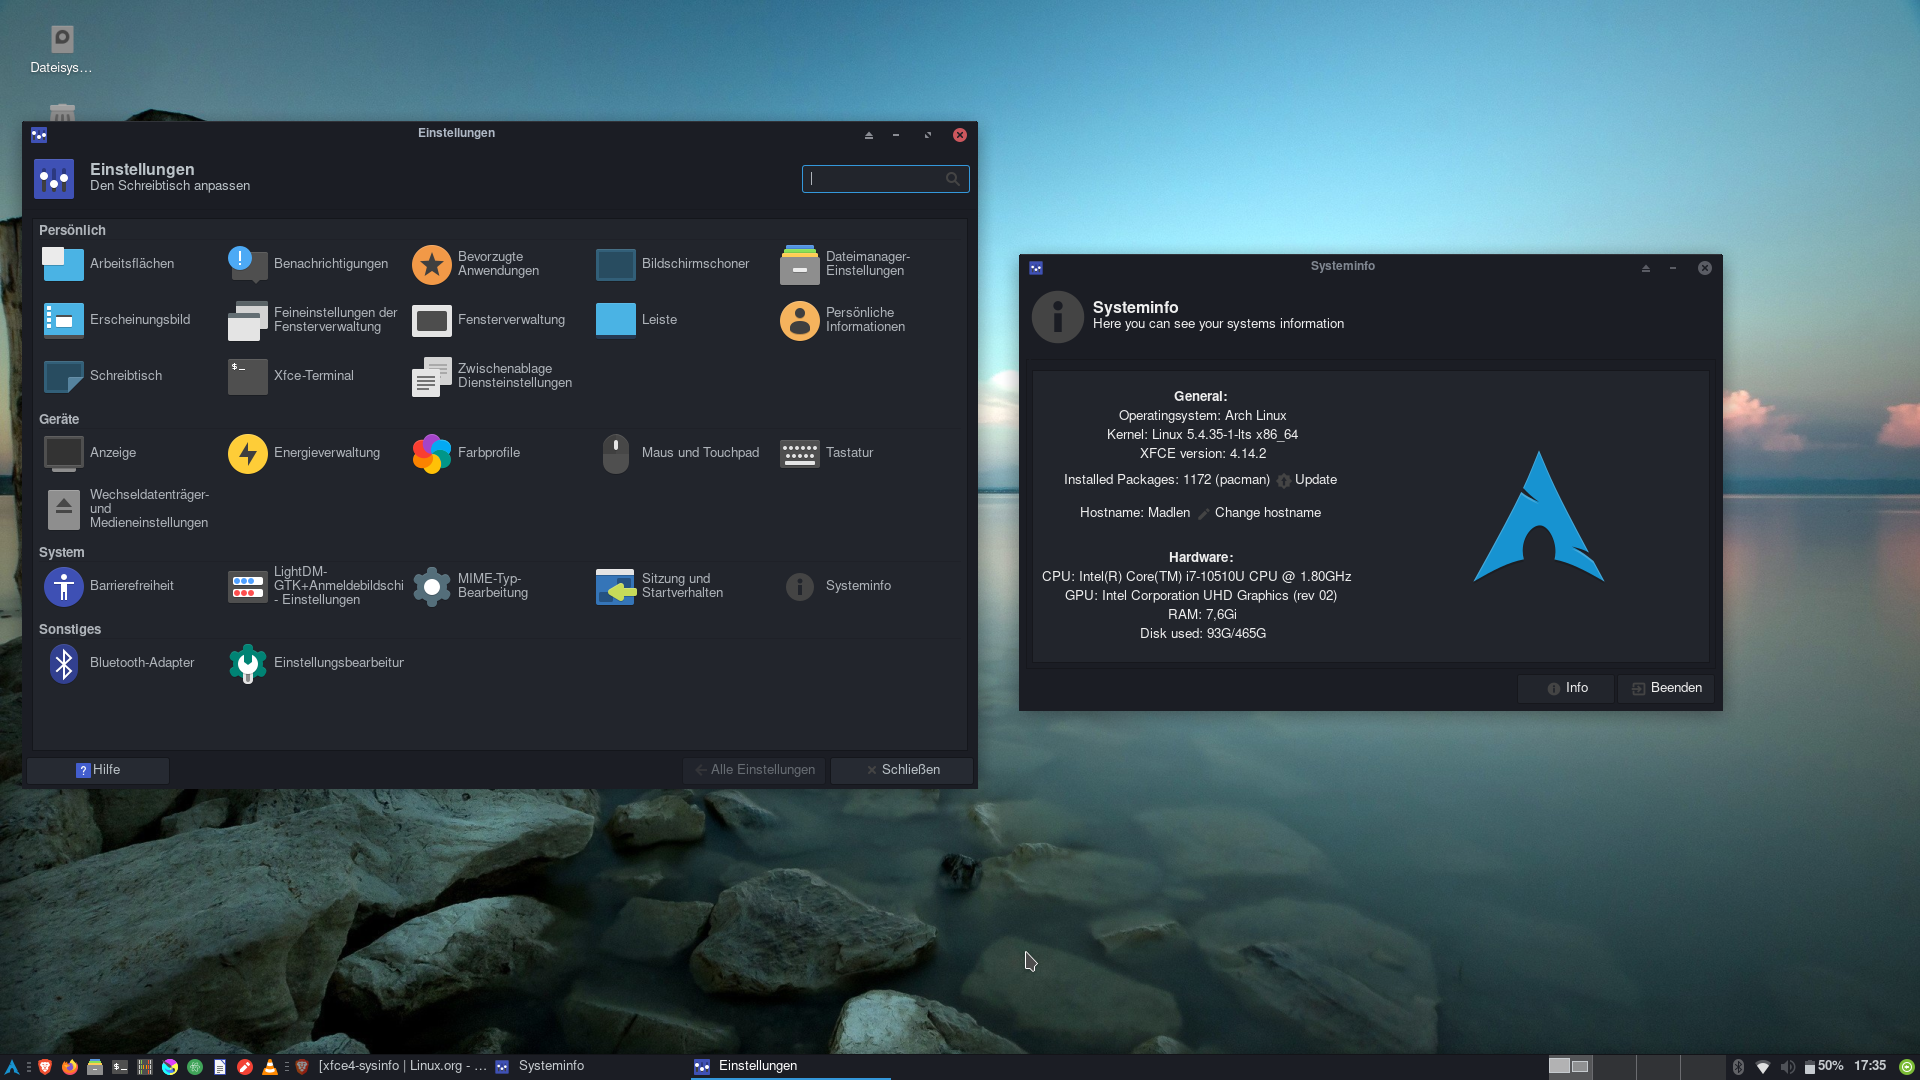
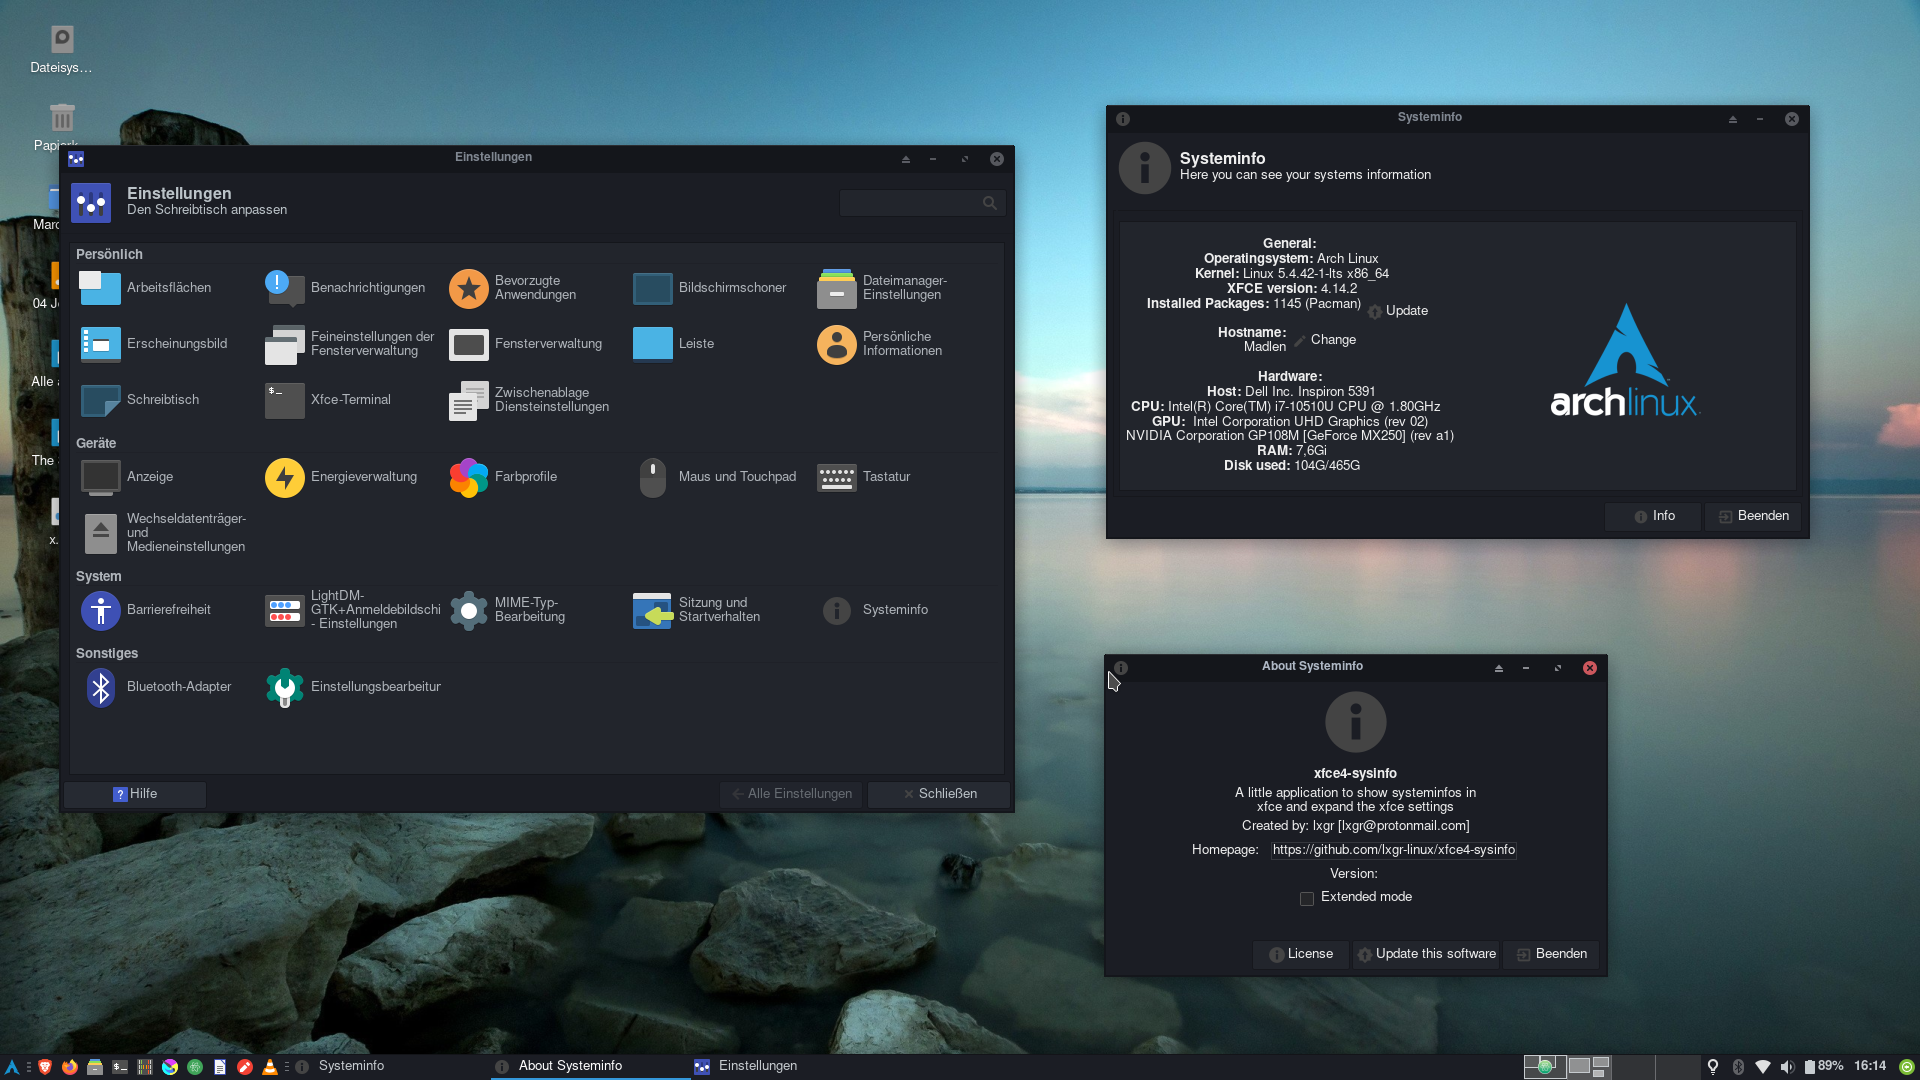
Readme

diff --git a/README.md b/README.md
@@ -30,3 +30,7 @@ Options:<br>
  # screenshot
 
 <img src=https://github.com/lxgr-linux/xfce4-sysinfo/blob/master/xfce4-sysinfo.png>
+normal mode
+
+<img src=https://github.com/lxgr-linux/xfce4-sysinfo/blob/master/xfce4-sysinfo_extended-mode.png>
+extended mode
